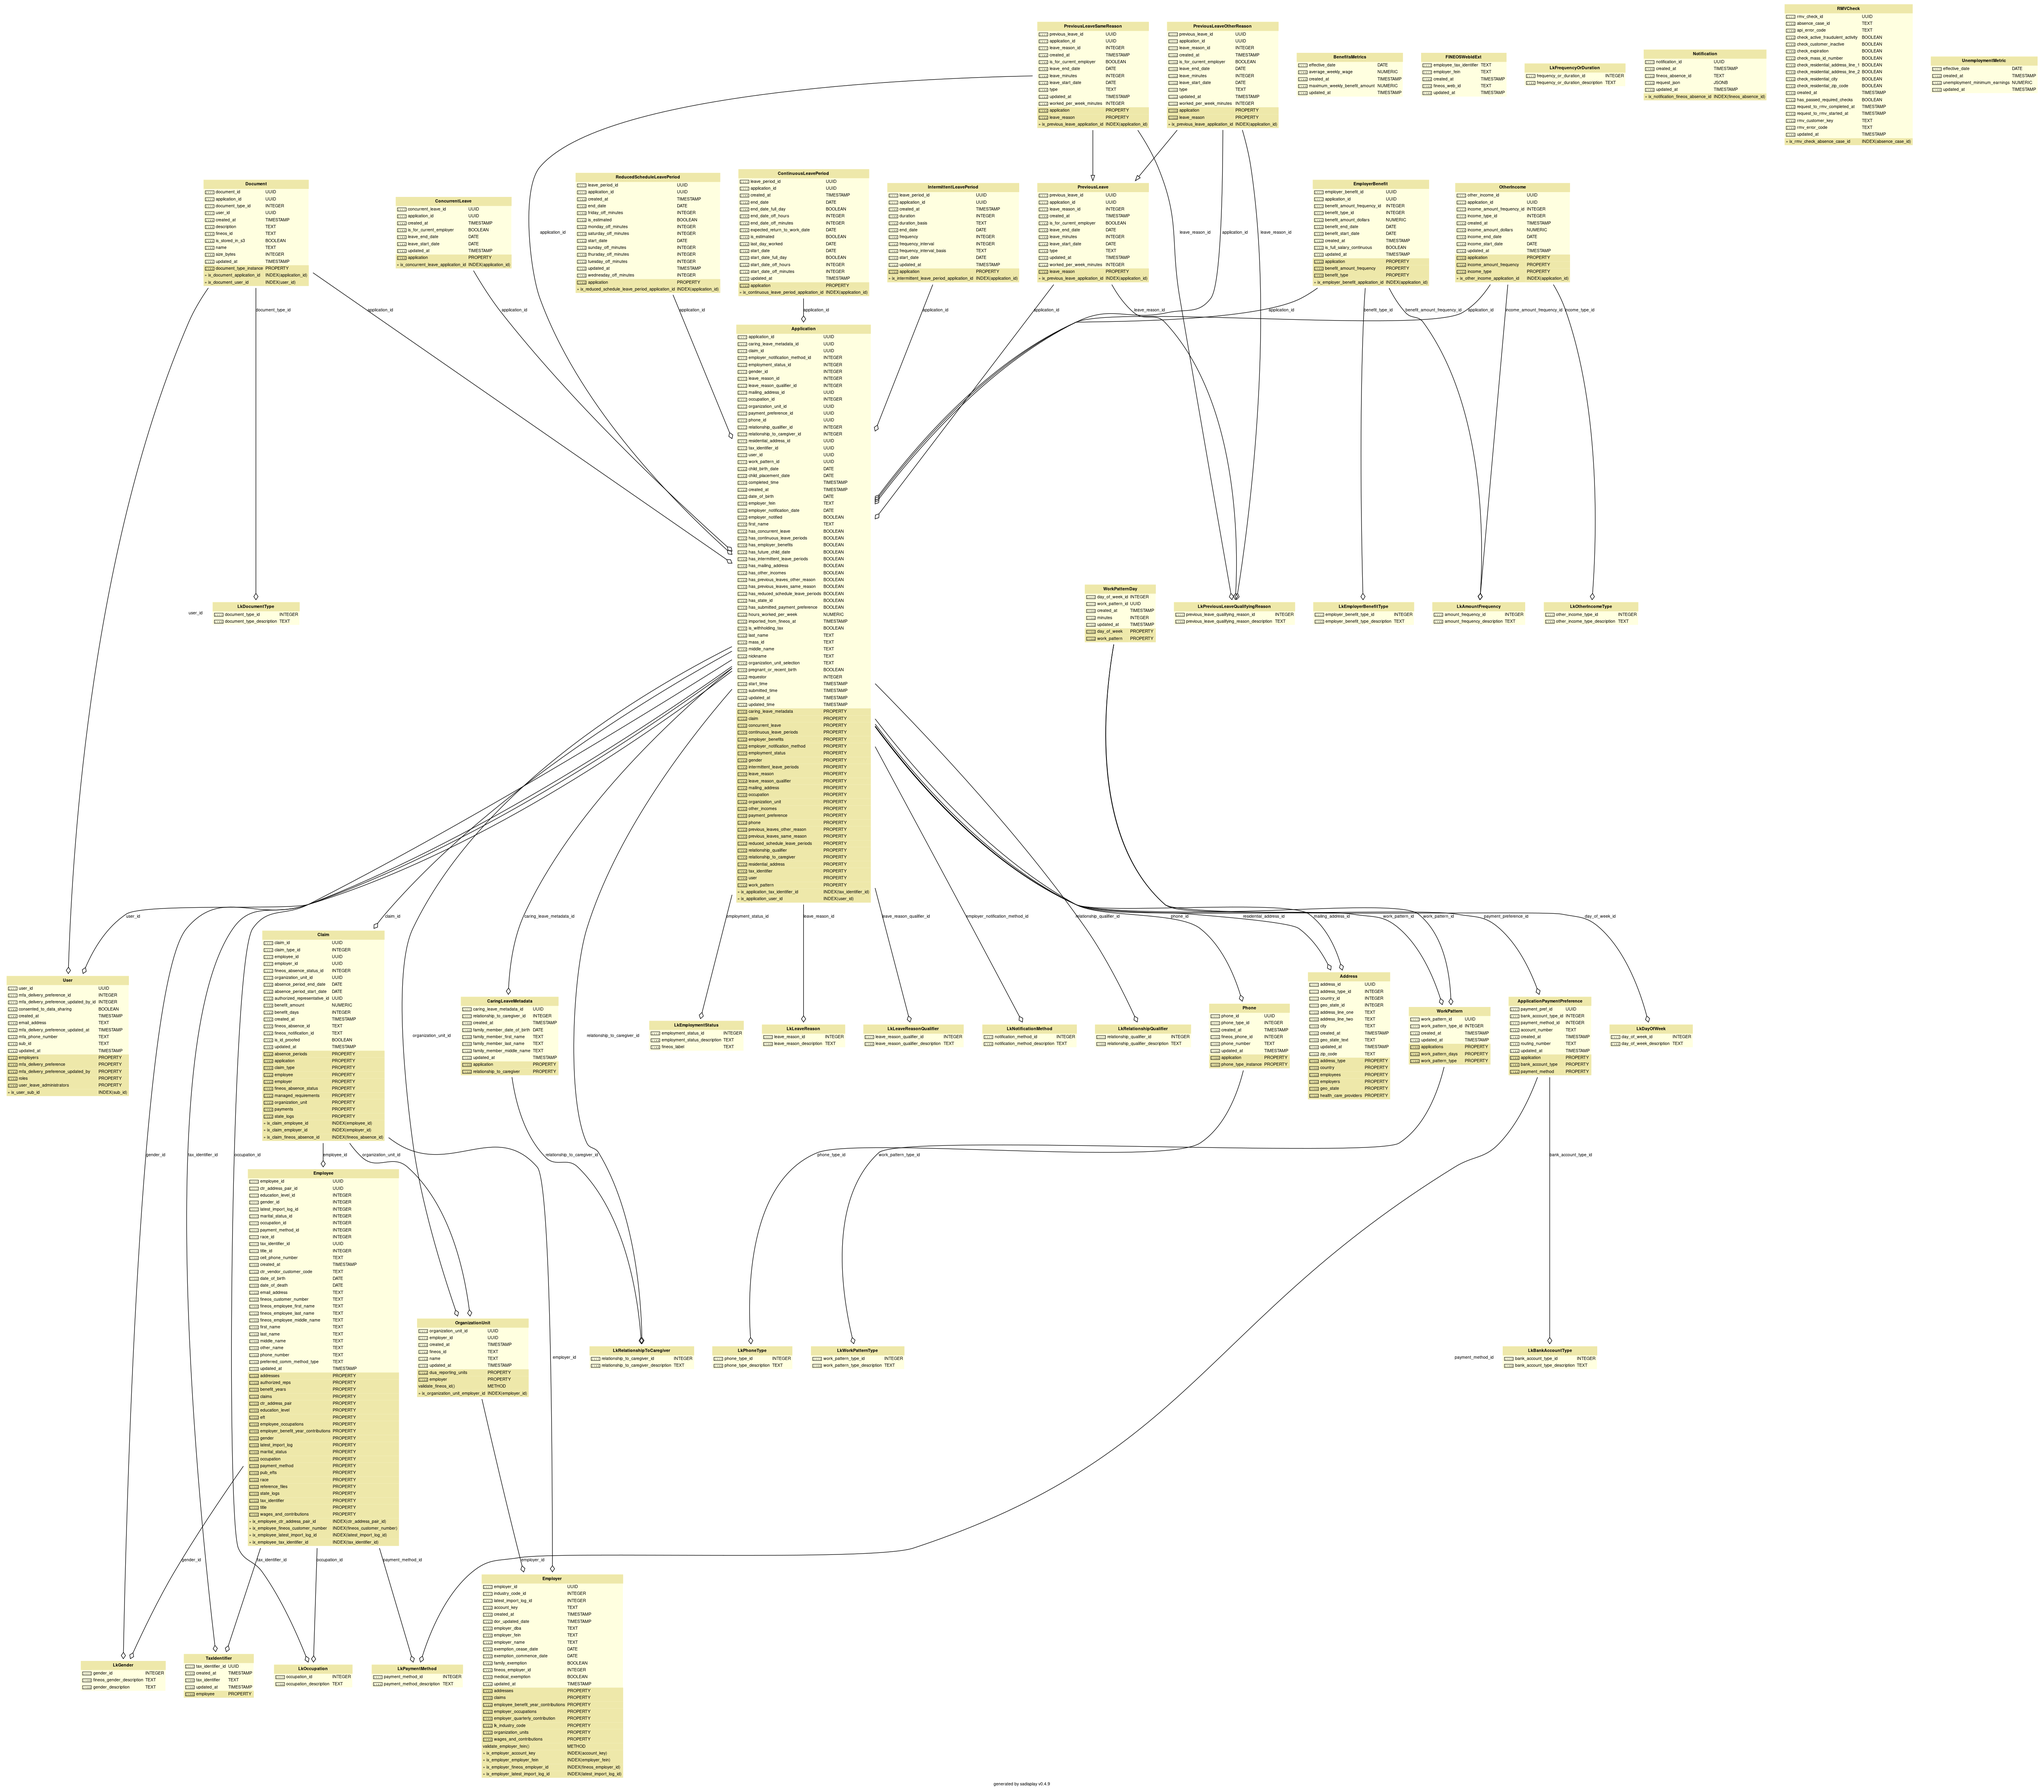
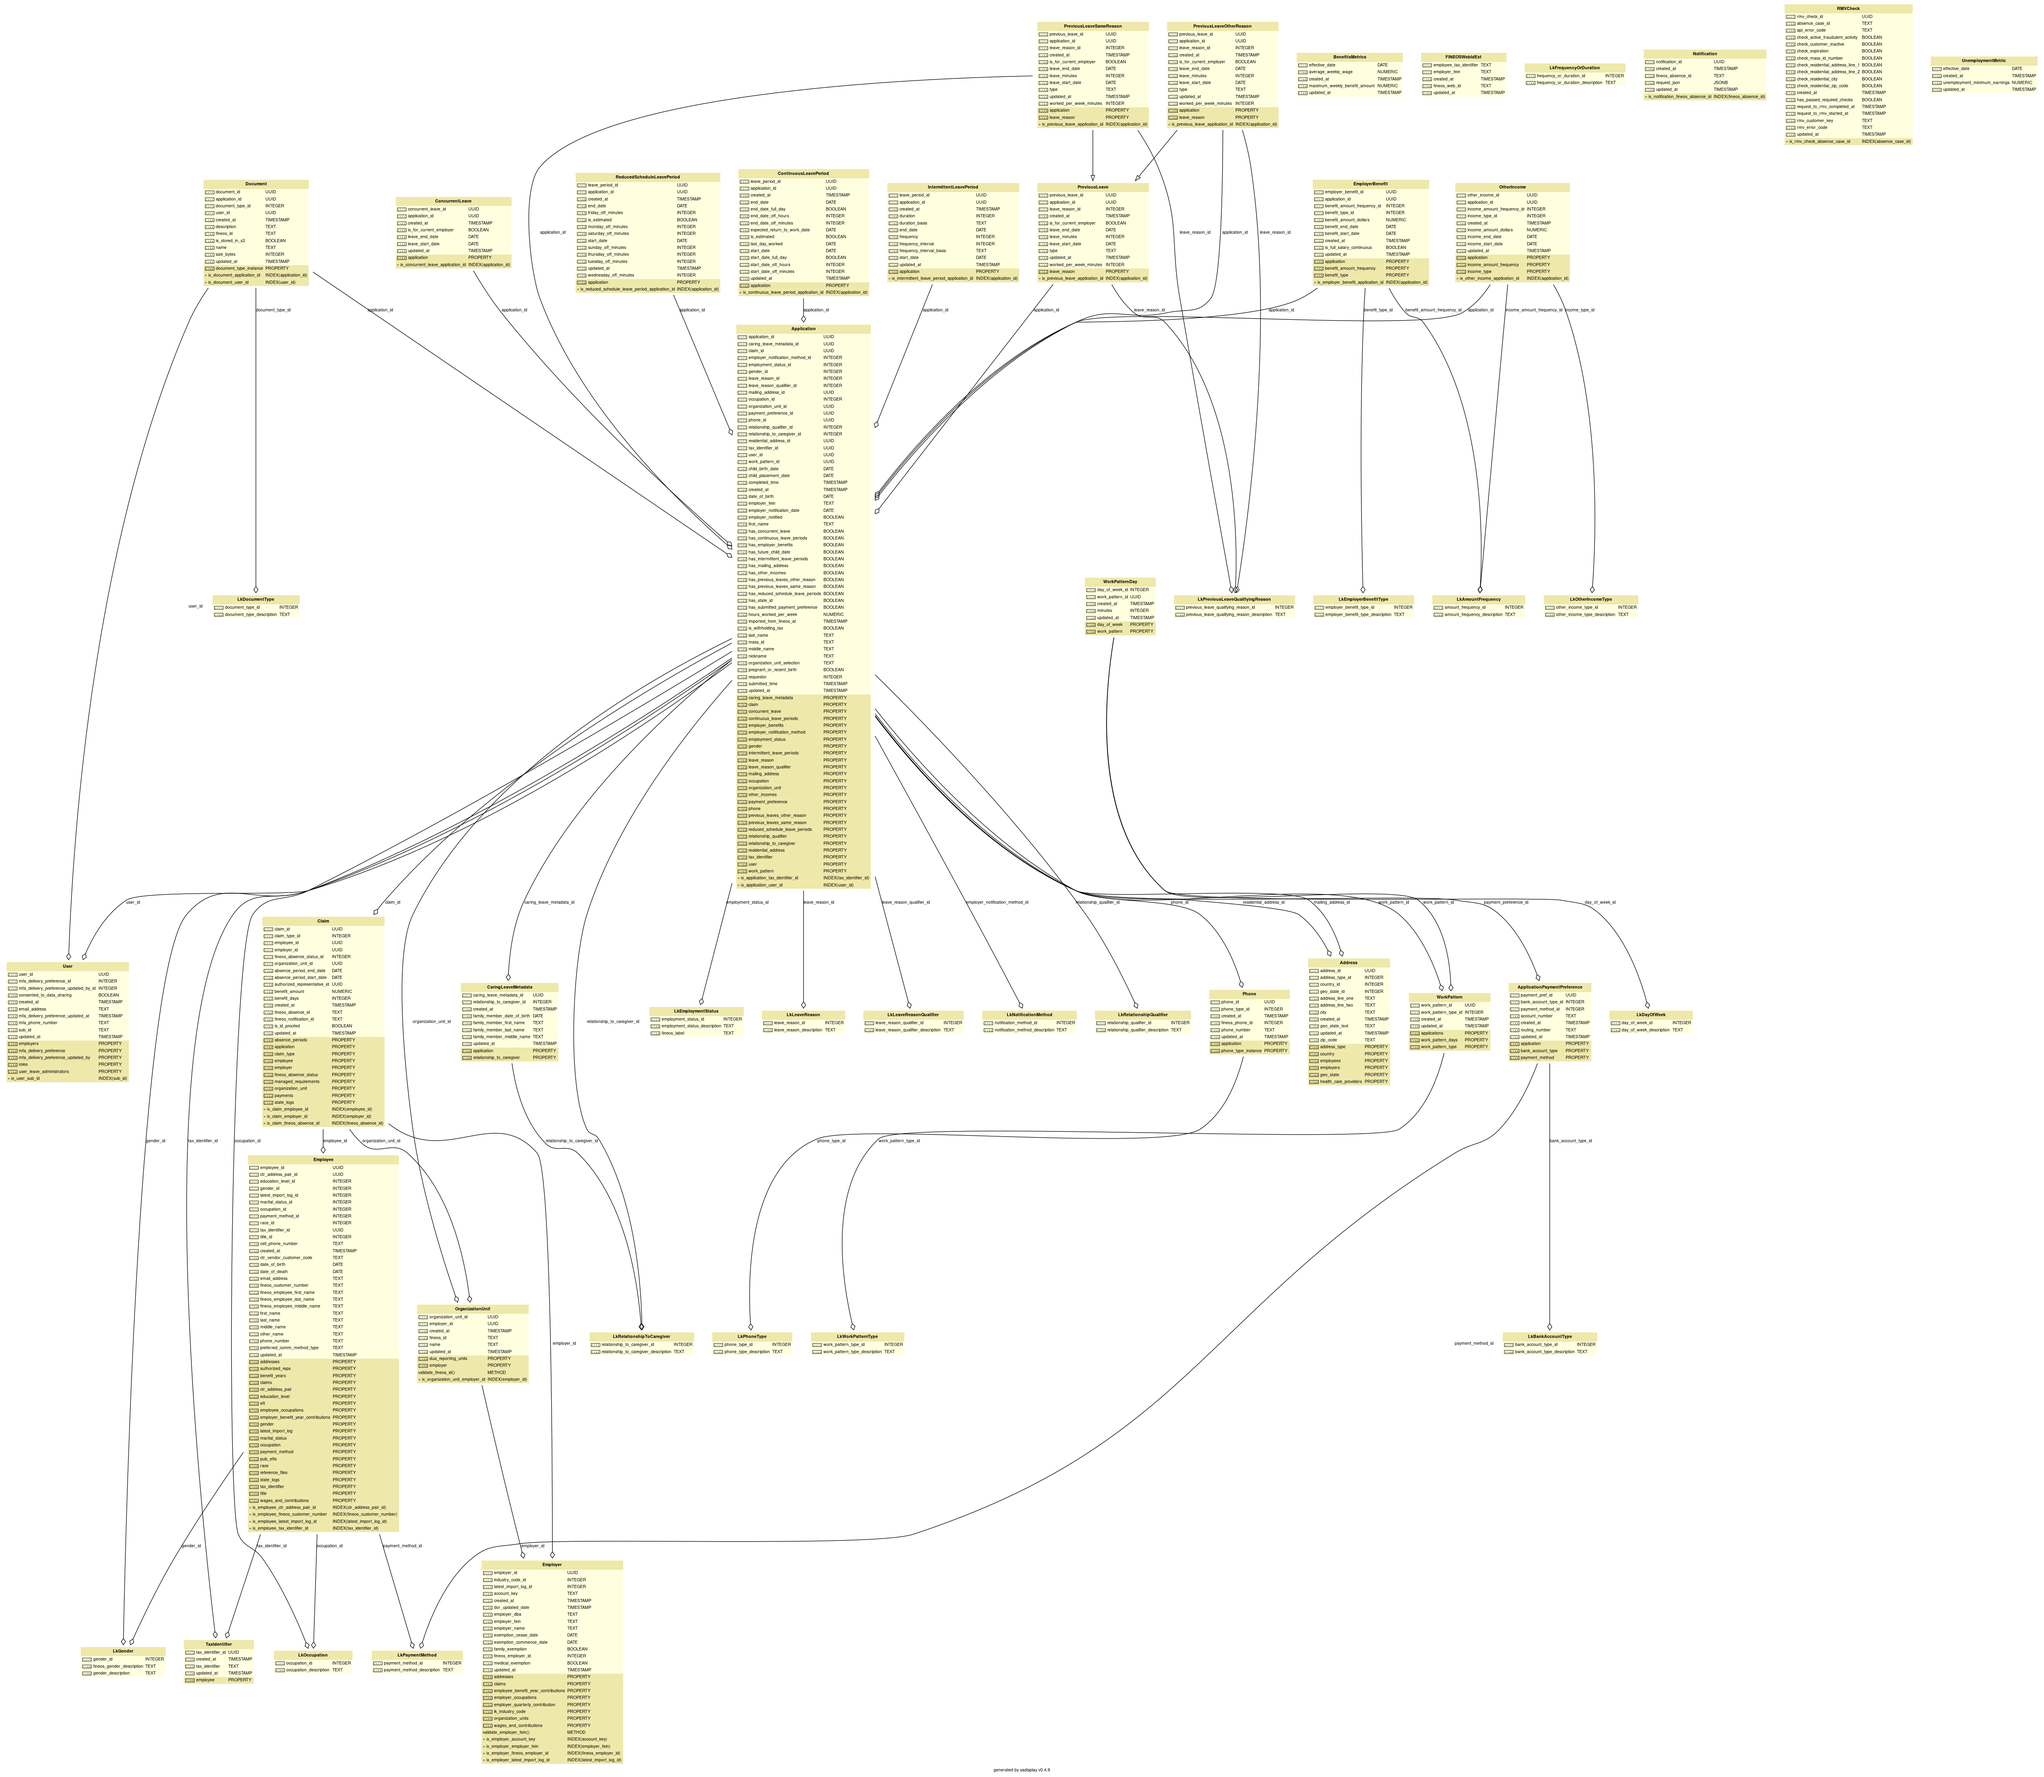
API-1929: remove old Application {start/updated}_time columns (#6789)
https://lwd.atlassian.net/browse/API-1929

## Changes
Columns already deprecated but had to stay for a while. Just deleting them now. Looks like there were a couple spots that were still writing to the old values, but nothing reading.

NOTE about the db migration - The downgrade re-adds the columns but won't restore the data. We should already have the desired data in the new created/updated_at columns, and nothing will read from the old columns so it doesn't seem worth it to have the downgrade restore the columns as well.

diff --git a/api/massgov/pfml/db/migrations/versions/2022_01_10_16_20_49_f21e9e1db760_remove_application_start_update_time.py b/api/massgov/pfml/db/migrations/versions/2022_01_10_16_20_49_f21e9e1db760_remove_application_start_update_time.py
@@ -1,0 +1,40 @@
+"""Remove Application.start/update_time
+
+Revision ID: f21e9e1db760
+Revises: da554f1ffff9
+Create Date: 2022-01-10 16:20:49.175008
+
+"""
+import sqlalchemy as sa
+from alembic import op
+from sqlalchemy.dialects import postgresql
+
+# revision identifiers, used by Alembic.
+revision = "f21e9e1db760"
+down_revision = "da554f1ffff9"
+branch_labels = None
+depends_on = None
+
+
+def upgrade():
+    # ### commands auto generated by Alembic - please adjust! ###
+    op.drop_column("application", "updated_time")
+    op.drop_column("application", "start_time")
+    # ### end Alembic commands ###
+
+
+def downgrade():
+    # ### commands auto generated by Alembic - please adjust! ###
+    op.add_column(
+        "application",
+        sa.Column(
+            "start_time", postgresql.TIMESTAMP(timezone=True), autoincrement=False, nullable=True
+        ),
+    )
+    op.add_column(
+        "application",
+        sa.Column(
+            "updated_time", postgresql.TIMESTAMP(timezone=True), autoincrement=False, nullable=True
+        ),
+    )
+    # ### end Alembic commands ###

diff --git a/api/massgov/pfml/api/applications.py b/api/massgov/pfml/api/applications.py
@@ -166,10 +166,6 @@ def applications_start():
 
     ensure(CREATE, application)
 
-    now = datetime_util.utcnow()
-    application.start_time = now
-    application.updated_time = now
-
     # this should always be the case at this point, but the type for
     # current_user is still optional until we require authentication
     if user := app.current_user():
@@ -831,7 +827,6 @@ def payment_preference_submit(application_id: UUID) -> Response:
                 db_session, payment_pref_request.payment_preference, existing_application
             )
 
-            existing_application.updated_time = datetime_util.utcnow()
             db_session.add(existing_application)
             db_session.commit()
             db_session.refresh(existing_application)

diff --git a/api/massgov/pfml/api/services/applications.py b/api/massgov/pfml/api/services/applications.py
@@ -11,7 +11,6 @@ import massgov.pfml.api.models.claims.common as claims_common_io
 import massgov.pfml.api.models.common as common_io
 import massgov.pfml.db as db
 import massgov.pfml.db.lookups as db_lookups
-import massgov.pfml.util.datetime as datetime_util
 import massgov.pfml.util.logging
 import massgov.pfml.util.pydantic.mask as mask
 from massgov.pfml.api.models.applications.common import Address as ApiAddress
@@ -400,7 +399,6 @@ def update_from_request(
         db_session.add(tax_id)
         application.tax_identifier = tax_id
 
-    application.updated_time = datetime_util.utcnow()
     db_session.add(application)
 
     for leave_schedule in leave_schedules:

diff --git a/api/massgov/pfml/db/models/applications.py b/api/massgov/pfml/db/models/applications.py
@@ -316,8 +316,6 @@ class Application(Base, TimestampMixin):
         PostgreSQLUUID, ForeignKey("application_payment_preference.payment_pref_id")
     )
     imported_from_fineos_at = Column(TIMESTAMP(timezone=True))
-    start_time = Column(TIMESTAMP(timezone=True))
-    updated_time = Column(TIMESTAMP(timezone=True))
     completed_time = Column(TIMESTAMP(timezone=True))
     submitted_time = Column(TIMESTAMP(timezone=True))
     has_employer_benefits = Column(Boolean)
